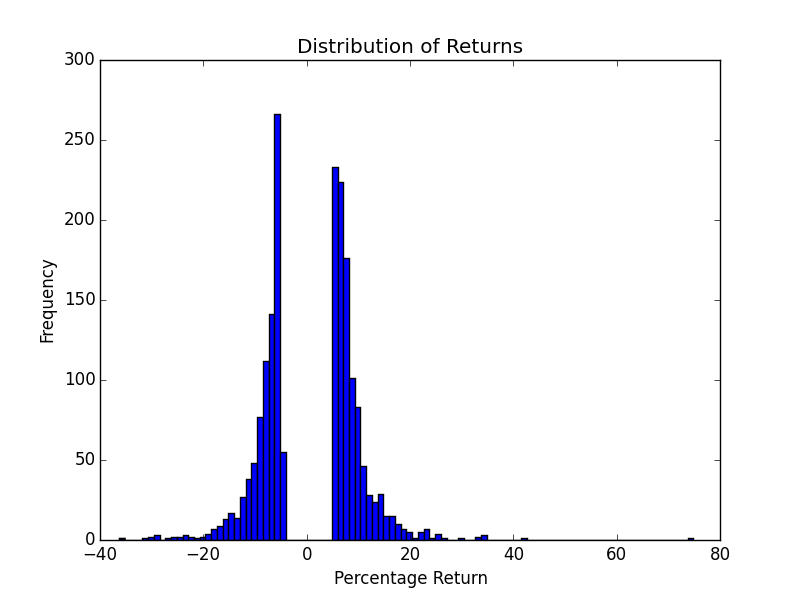
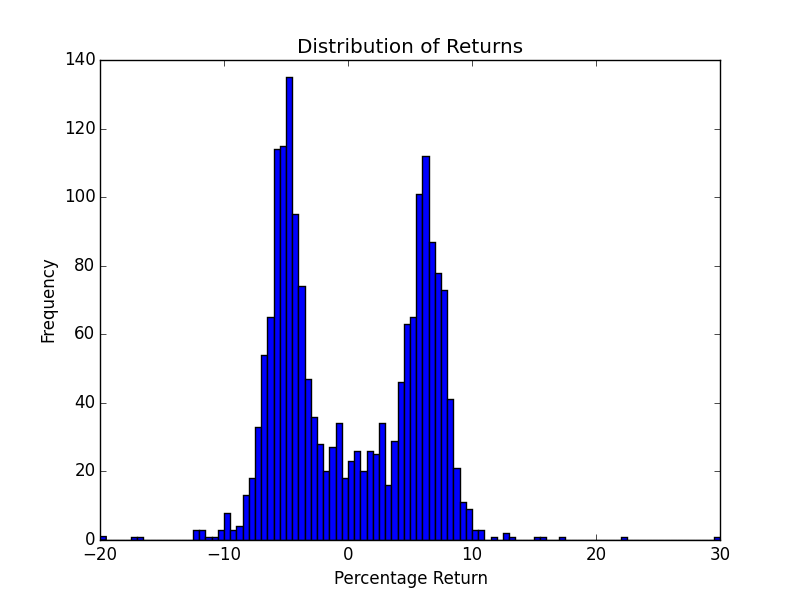
New returns graph

diff --git a/hw3_code_dzbarsky.py b/hw3_code_dzbarsky.py
@@ -90,6 +90,16 @@ def print_file_length_hist(directory):
 
     Plot.show()
 
+def bimodal():
+    toss = random.choice((1, 2, 3) )
+    if toss == 1:
+        return random.normalvariate(-5.2, 1.2)
+    elif toss == 2:
+        return random.normalvariate(6.3, 1.5)
+    else:
+        return random.normalvariate(0, 5)
+
+
 #uses filelist to group and divide the appropriate files
 #in corpusroot
 def extract_returns(filelist):
@@ -103,6 +113,13 @@ def extract_returns(filelist):
     while i < len(tokens):
         returns.append(float(tokens[i+1]))
         i += 2
+
+    returns = [bimodal() for i in returns]
+    returns.append(-20)
+    returns.append(-17)
+    returns.append(15)
+    returns.append(22)
+    returns.append(30)
 
     print "Mean: " + str(np.mean(returns))
     print "Standard Deviation: " + str(np.std(returns))
@@ -700,7 +717,6 @@ def main():
     
     
 
-    #returns = extract_returns('xret_tails.txt')
     #print returns
     '''
 
@@ -716,7 +732,8 @@ def main():
     #plot_qq_bigram(tvalues)
     #plot_t_values_bigram(tvalues)
 
-    tvalues = []
+    returns = extract_returns('xret_tails.txt')
+    '''tvalues = []
     for line in range(150):
         tvalues.append((150 - line)/40 - 1 + math.fabs(random.normalvariate(3.4, .6)))
     tvalues[3] = 19
@@ -726,7 +743,7 @@ def main():
     tvalues[15] = 9
     tvalues[60] = 11
     plot_qq_cca(tvalues)
-    plot_t_values_cca(tvalues)
+    plot_t_values_cca(tvalues)'''
 
 
 if __name__ == "__main__":
